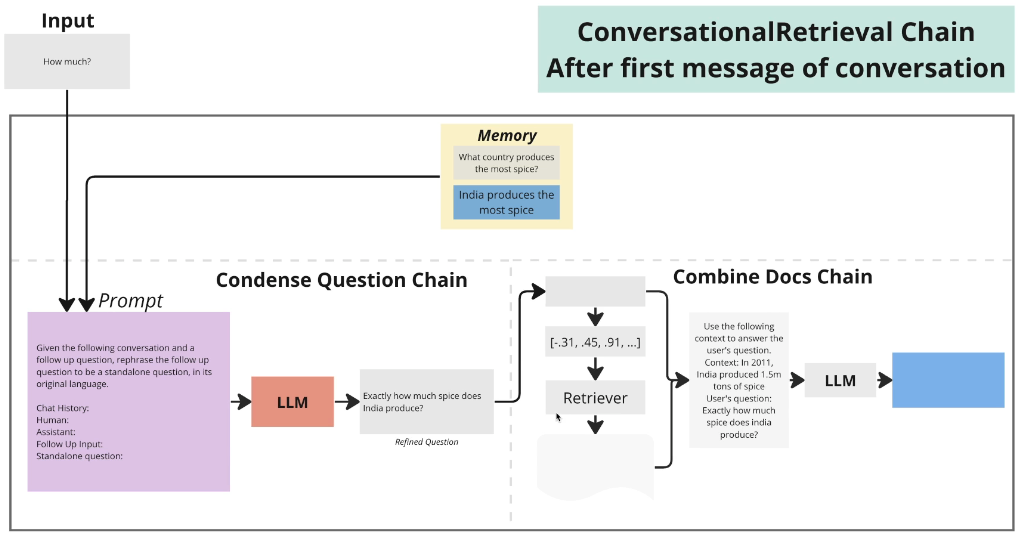
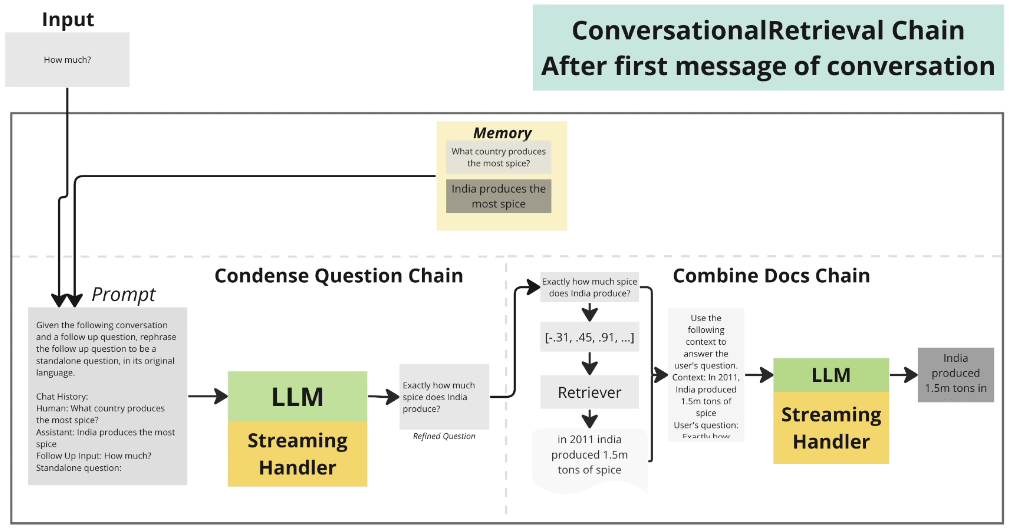
configured the streaming handler to exclusively listen to events originating from models with streaming=True

diff --git a/app/chat/callbacks/stream.py b/app/chat/callbacks/stream.py
@@ -6,6 +6,14 @@ class StreamingHandler(BaseCallbackHandler): # `StreamingHandler` inherits behav
     # init func to receive the queue and assign it to an instance variable:
     def __init__(self, queue):
         self.queue = queue
+        self.streaming_run_ids = set()
+
+    def on_chat_model_start(self, serialized, messages, run_id, **kwargs):
+        # print("1⃣", serialized)
+        # print("2⃣", run_id)
+        # streaming handler only listens to events coming from models with streaming=True:
+        if serialized["kwargs"]["streaming"]: # if True
+            self.streaming_run_ids.add(run_id)
 
     # define a callback method that takes a token and puts it into the queue:
     def on_llm_new_token(self, token, **kwargs):
@@ -14,8 +22,11 @@ class StreamingHandler(BaseCallbackHandler): # `StreamingHandler` inherits behav
 
     # two scenarios to end the while loop:
     # 1. callback method to notify the end of the generated response:
-    def on_llm_end(self, response, **kwargs):
-        self.queue.put(None) # add None to the queue
+    def on_llm_end(self, response, run_id, **kwargs):
+        # if run_id is present in the set:
+        if run_id in self.streaming_run_ids:
+            self.queue.put(None) # add None to the queue
+            self.streaming_run_ids.remove(run_id) # remove from set (not needed anymore)
 
     # 2. callback method to handle errors during response generation (eg: API key is invalid, ...)
     def on_llm_error(self, error, **kwargs):

diff --git a/app/chat/chat.py b/app/chat/chat.py
@@ -1,3 +1,4 @@
+from langchain.chat_models import ChatOpenAI
 from app.chat.models import ChatArgs
 from app.chat.llms.chatopenai import build_llm # model
 from app.chat.memories.sql_memory import build_memory # memory
@@ -16,9 +17,11 @@ def build_chat(chat_args: ChatArgs): # colon is used to indicate the type of the
     llm = build_llm(chat_args)
     memory = build_memory(chat_args)
     retriever = build_retriever(chat_args)
+    condense_question_llm = ChatOpenAI(streaming=False) # False by default
 
     return StreamingConversationalRetrievalChain.from_llm(
         llm=llm,
+        condense_question_llm=condense_question_llm,
         memory=memory,
         retriever=retriever
     )
